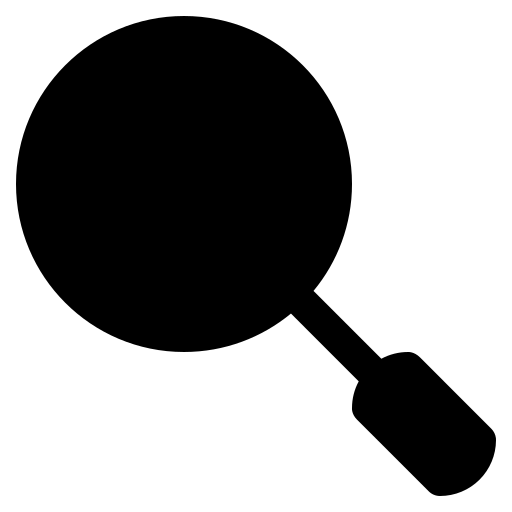
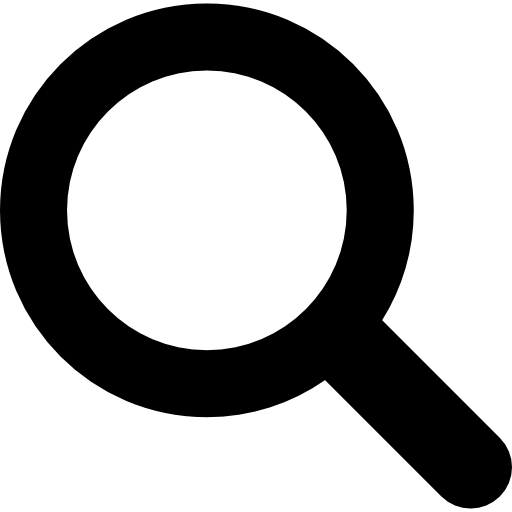
service cards srction + responsive search bar +

diff --git a/local-service-provider/src/components/jsx/location.jsx b/local-service-provider/src/components/jsx/location.jsx
@@ -1,5 +1,6 @@
 import { useState } from "react";
 import location from "../../assets/images/location.png";
+import location_pin from "../../assets/images/location-pin.png";
 import down_arrow from "../../assets/images/down-arrow.png";
 
 function Location() {
@@ -42,39 +43,48 @@ function Location() {
   }
   return (
     <>
-      <div className="mx-6 my-2">
-        <div className="text-3xl font-[Satoshi-Bold]">Select the location</div>
-      </div>
-
-      <div className="flex w-45 my-2 mt-5 ml-6 rounded-4xl bg-gray-100">
-        <span className="absolute ml-5 mt-3 w-6 h-6">
-          <img src={location} alt="" />
-        </span>
-        <button
-          onClick={() => setIsOpen(!isOpen)}
-          className="w-full items-center justify-between  px-13 py-3 text-left  text-black"
-        >
-          {selected}
-        </button>
-        <span
-          onClick={() => setIsOpen(!isOpen)}
-          className=" absolute mt-4 ml-36 w-4 h-4"
-        >
-          <img src={down_arrow} alt="" />
-        </span>
-        {isOpen && (
-          <ul className="absolute z-10 p-2 pr-0 mt-12 w-55 h-50 overflow-auto rounded-2xl border-transparent bg-white shadow-xl shadow-">
-            {locations.map((location) => (
-              <li
-                key={location}
-                onClick={() => chooseCategory(location)}
-                className="cursor-pointer pl-7 py-3 text-black hover:bg-gray-100"
+      <div className="flex justify-center">
+        <div className="grid sm:grid-cols-1 md:grid-cols-3 justify-center items-center">
+          <div className="justify-center">
+            <div className="flex w-45 my-2 mt-3 rounded-4xl bg-gray-100">
+              <span className="absolute ml-5 mt-3 w-6 h-6">
+                <img src={location} alt="" />
+              </span>
+              <button
+                onClick={() => setIsOpen(!isOpen)}
+                className="w-full items-center justify-between  px-13 py-3 text-left  text-black"
               >
-                {location}
-              </li>
-            ))}
-          </ul>
-        )}
+                {selected}
+              </button>
+              <span
+                onClick={() => setIsOpen(!isOpen)}
+                className="absolute mt-4 ml-36 w-4 h-4"
+              >
+                <img src={down_arrow} alt="" />
+              </span>
+              {isOpen && (
+                <ul className="absolute z-10 p-2 pr-0 mt-12 w-55 h-50 overflow-auto rounded-2xl border-transparent bg-white shadow-xl shadow-">
+                  {locations.map((location) => (
+                    <li
+                      key={location}
+                      onClick={() => chooseCategory(location)}
+                      className="cursor-pointer pl-7 py-3 text-black hover:bg-gray-100"
+                    >
+                      {location}
+                    </li>
+                  ))}
+                </ul>
+              )}
+            </div>
+          </div>
+          <div className="text-center"> or</div>
+          <div className="my-2 pl-2 flex items-center justify-center">
+            <img src={location_pin} className="w-5 h-5" alt="" />
+            <div className="mx-2 font-[Satoshi-Variable] font-medium underline">
+              My current location
+            </div>
+          </div>
+        </div>
       </div>
     </>
   );

diff --git a/local-service-provider/src/components/jsx/service_search_bar.jsx b/local-service-provider/src/components/jsx/service_search_bar.jsx
@@ -9,43 +9,52 @@ function ServicesBar() {
   };
   return (
     <>
-      <form action="" className="my-3">
-        <div class="px-6">
-          <div class="relative flex justify-center ">
-            <input
-              id="service"
-              value={inputValue}
-              onChange={(e) => setInputVlaue(e.target.value)}
-              onBlur={handleBlur}
-              class="
+      <div className="flex justify-center">
+        <div className="my-3 md:w-150 ">
+          <form action="">
+            <div class="px-6">
+              <div className="my-5">
+                <div className="text-4xl font-[Satoshi-Bold] tracking-tighter">
+                  Search any service with LSF
+                </div>
+              </div>
+              <div class="relative flex justify-center">
+                <input
+                  id="service"
+                  value={inputValue}
+                  onChange={(e) => setInputVlaue(e.target.value)}
+                  onBlur={handleBlur}
+                  class="
             text-lg
-            w-screen peer bg-gray-100 placeholder:text-slate-400 text-slate-700
+            w-full peer bg-gray-100 placeholder:text-slate-400 text-slate-700
             rounded-md px-5 pt-6.5 pb-3.5 max-h-15 
             transition duration-300 ease
             selection:border-2 selection:border-black
             "
-            />
-            <label
-              for="service"
-              class="absolute cursor-text text-gray-500 font-normal bg-transparent px-3 left-3 top-4 text-lg transition-all 
+                />
+                <label
+                  for="service"
+                  class="absolute cursor-text text-gray-500 font-normal bg-transparent px-3 left-3 top-4 text-lg transition-all 
           transform origin-left peer-focus:top-0
           peer-focus:left-3 peer-focus:text-s peer-focus:text-gray-500 peer-focus:scale-80 peer-focus:"
-            >
-              Service
-            </label>
-            <div className="absolute w-8 h-8 right-4 top-3">
-              <a href="">
-                <img src={magnifying_glass} alt="" />
-              </a>
+                >
+                  Service
+                </label>
+                <div className="absolute w-8 h-8 right-4 top-3">
+                  <a href="">
+                    <img src={magnifying_glass} alt="" />
+                  </a>
+                </div>
+              </div>
+              <input
+                className="bg-black text-white mt-4 px-7 rounded-lg h-12"
+                type="submit"
+                value="See services"
+              />
             </div>
-          </div>
-          <input
-            className="bg-black text-white mt-4 px-7 rounded-lg h-12"
-            type="submit"
-            value="See services"
-          />
+          </form>
         </div>
-      </form>
+      </div>
     </>
   );
 }

diff --git a/local-service-provider/src/components/jsx/services_card.jsx b/local-service-provider/src/components/jsx/services_card.jsx
@@ -1,0 +1,52 @@
+import pin from "../../assets/images/pin.png";
+
+function ServiceCard() {
+  const services = [
+    "Malinda Saloon",
+    "Sigiri hardware shop",
+    "Keells",
+    "Baker",
+    "Thareen Baker",
+    "Sigiri hardware shop",
+    "Malinda Saloon",
+    "Sigiri hardware shop",
+    "Malinda Saloon",
+    "Sigiri hardware shop",
+    "Malinda Saloon",
+    "Sigiri hardware shop",
+    "Malinda Saloon",
+    "Sigiri hardware shop",
+  ];
+  return (
+    <>
+      <div className="flex justify-center ">
+        <div className="w-360 m-3 grid grid-cols-1 gap-4 sm:grid-cols-2 md:grid-cols-2 lg:grid-cols-3 xl:grid-cols-4 ">
+          {services.map((service) => (
+            <div className="my-2 px-5 py-4 rounded-4xl bg-gray-100 ">
+              <div className="">
+                <div className="text-2xl">{service}</div>
+                <div>
+                  Lorem ipsum dolor sit amet consectetur adipisicing elit.
+                  Voluptatum eum quaerat culpa quisquam dolorem
+                </div>
+                <div className="flex justify-between mt-2">
+                  <div className="flex justify-center items-center px-4 rounded-4xl bg-gray-300">
+                    <div>Location</div>
+                    <span>
+                      <img className="w-5 h-5 ml-2" src={pin} alt="" />
+                    </span>
+                  </div>
+                  <div className="px-3 py-2 rounded-4xl bg-black text-white">
+                    <a href=""> Call now</a>
+                  </div>
+                </div>
+              </div>
+            </div>
+          ))}
+        </div>
+      </div>
+    </>
+  );
+}
+
+export default ServiceCard;

diff --git a/local-service-provider/src/components/jsx/header.jsx b/local-service-provider/src/components/jsx/header.jsx
@@ -1,11 +1,12 @@
 import Hamburger from "./hamburger";
+import { Link } from "react-router-dom";
 
 function Header() {
   return (
     <>
       <header className="fixed top-0 left-0 right-0 z-999">
         <div className="flex items-center justify-between bg-black p-4 pr-2">
-          <div className="text-xl text-white p-1 px-2">LSF</div>
+          <div className="text-xl text-white p-1 px-2"><Link to={"/"}>LSF</Link></div>
           <div className="text-sm flex items-center pr-2">
             <div className="text-white mr-4">Log in</div>
             <div className="bg-white p-2 px-3 rounded-4xl ml-1">Sign up</div>

diff --git a/local-service-provider/src/NotFound.jsx b/local-service-provider/src/NotFound.jsx
@@ -2,11 +2,15 @@ import { Link } from "react-router-dom";
 
 const NotFoundPage = () => {
   return (
-    <div>
-      <h1>Not Found</h1>
-      <Link to={"/"}>
-        <button>Go back home</button>
-      </Link>
+    <div className="flex justify-center">
+      <div>
+        <h1 className="text-4xl">Page Not Found</h1>
+        <Link to={"/"}>
+          <button className="text-lg bg-gray-300 p-2 px-5 rounded-3xl mt-4 hover:bg-gray-400">
+            Go back home
+          </button>
+        </Link>
+      </div>
     </div>
   );
 };

diff --git a/local-service-provider/src/main.jsx b/local-service-provider/src/main.jsx
@@ -3,12 +3,12 @@ import { createRoot } from "react-dom/client";
 import "./index.css";
 import App from "./App.jsx";
 import { createBrowserRouter, RouterProvider } from "react-router-dom";
-import About from "./About.jsx";
+import Services from "./Services.jsx";
 import NotFoundPage from "./NotFound.jsx";
 
 const router = createBrowserRouter([
   { path: "/", element: <App /> },
-  { path: "/About", element: <About /> },
+  { path: "/Services", element: <Services /> },
   { path: "*", element: <NotFoundPage /> },
 ]);
 

diff --git a/local-service-provider/src/Services.jsx b/local-service-provider/src/Services.jsx
@@ -1,0 +1,13 @@
+import Header from "./components/jsx/header";
+import ServiceCard from "./components/jsx/services_card";
+
+function Services() {
+  return (
+    <>
+      <Header />
+      <ServiceCard />
+    </>
+  );
+}
+
+export default Services;
